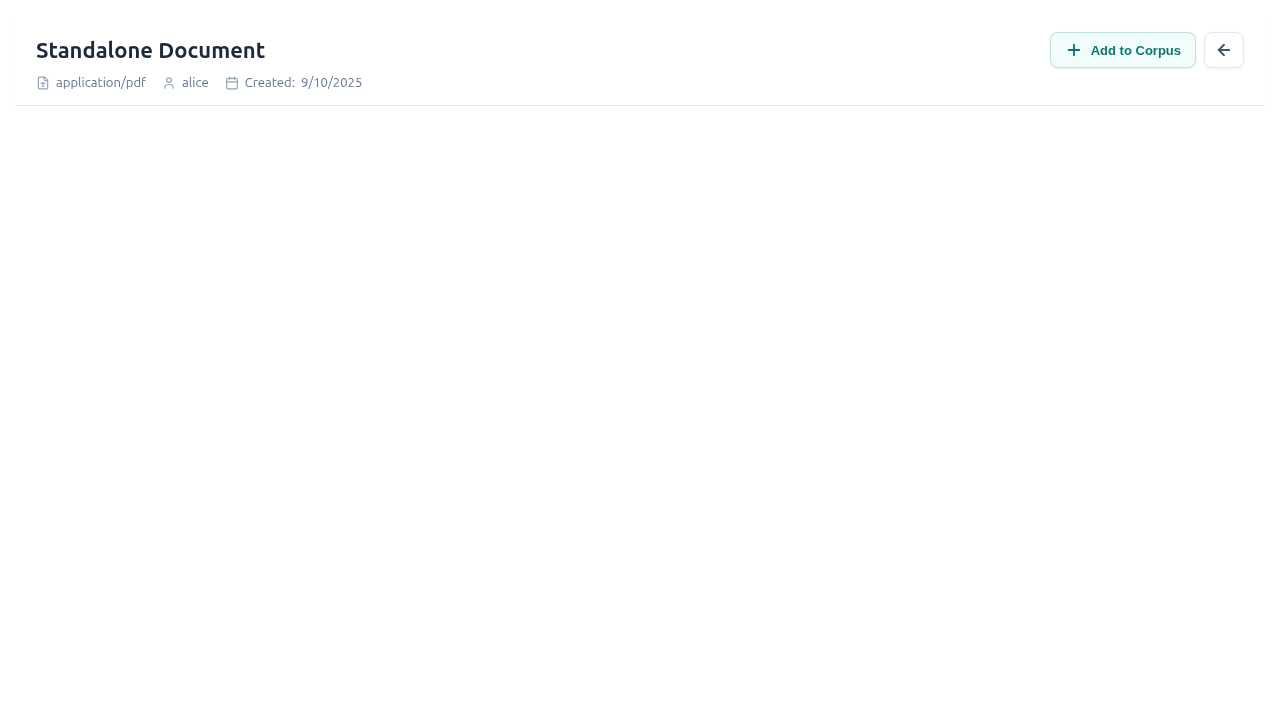
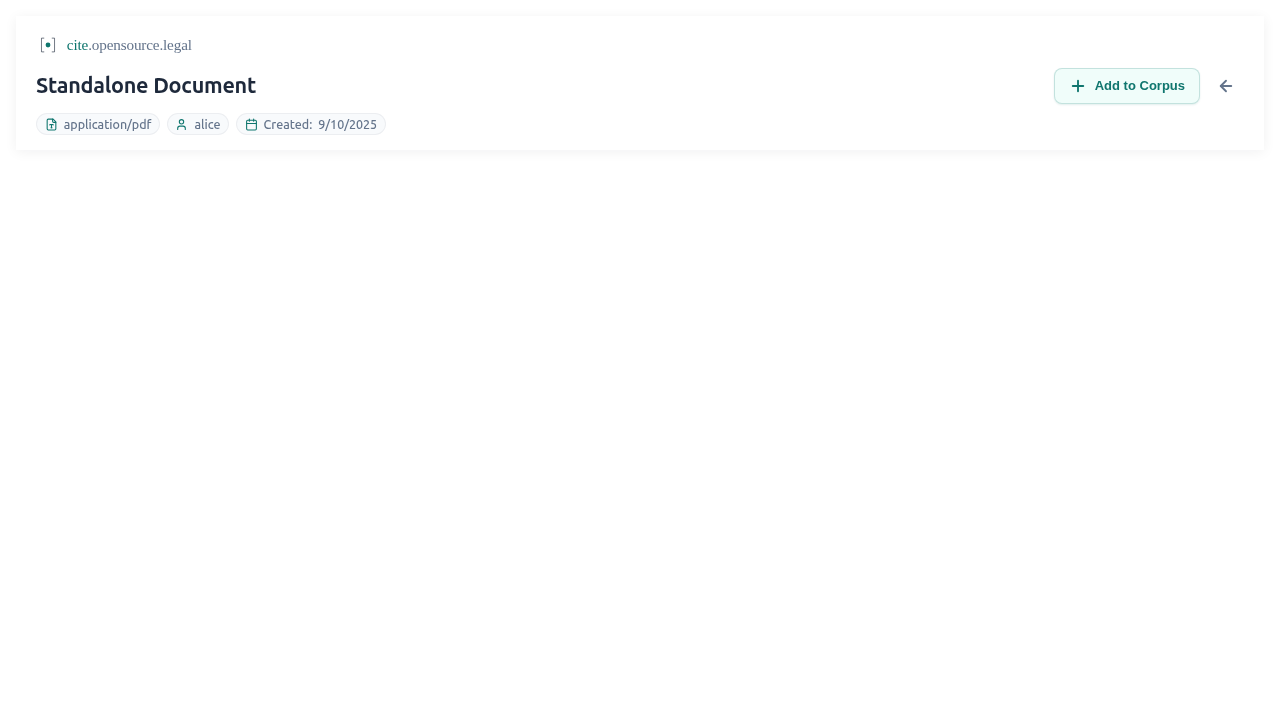
Surface cite / opensource.legal branding in document viewer header (#1865)
* Surface cite / opensource.legal branding in document viewer header

The DocumentKnowledgeBase opens as a full-screen modal that sits above
and hides the global NavMenu where the cite logo and cite.opensource.legal
branding normally live. Add a brand row to the top of the document
HeaderBar that renders the CiteMark logo plus the cite.opensource.legal
wordmark and links home, so the product identity stays visible while a
document is open.

* Address review: idiomatic brand styled-components, brand test, lint fix

- Replace .brand-domain / .brand-domain__accent class selectors in BrandLink
  with dedicated BrandDomain / BrandAccent styled components (type-safe,
  co-located, consistent with the rest of HeaderAndLayout).
- Drop the duplicate JSX rationale comment in HeaderBar (the HeaderBrandRow
  JSDoc is the canonical explanation).
- Document the margin-left nudge on BrandLink.
- HeaderBar.ct.tsx: assert the brand row renders; raise the mobile-header
  compactness bound 112 -> 140 to account for the intentional brand row.
- Prettier reformat (fixes the failing Lint check).

---------

Changed region(s): [[0.0312, 0.0611, 0.2812, 0.1833], [0.8125, 0.0611, 0.9375, 0.1528]]

diff --git a/frontend/src/components/knowledge_base/document/styled/HeaderAndLayout.tsx b/frontend/src/components/knowledge_base/document/styled/HeaderAndLayout.tsx
@@ -1,7 +1,11 @@
+import { Link } from "react-router-dom";
 import styled from "styled-components";
 import { Z_INDEX } from "../../../../assets/configurations/constants";
 import { SHADOW } from "../../../../assets/configurations/designTokens";
-import { OS_LEGAL_COLORS } from "../../../../assets/configurations/osLegalStyles";
+import {
+  OS_LEGAL_COLORS,
+  OS_LEGAL_TYPOGRAPHY,
+} from "../../../../assets/configurations/osLegalStyles";
 
 export const HeaderContainer = styled.div`
   margin: 0;
@@ -29,6 +33,59 @@ export const HeaderContainer = styled.div`
   @media (max-width: 480px) {
     padding: 0.75rem 0.85rem 0.7rem;
   }
+`;
+
+/**
+ * Brand row pinned to the very top of the document header.
+ *
+ * The DocumentKnowledgeBase opens as a full-screen modal that sits above — and
+ * therefore hides — the global NavMenu where the cite / opensource.legal
+ * branding normally lives. We re-surface that branding here so the product
+ * identity stays visible while a document is open.
+ */
+export const HeaderBrandRow = styled.div`
+  display: flex;
+  align-items: center;
+  min-width: 0;
+`;
+
+export const BrandLink = styled(Link)`
+  display: inline-flex;
+  align-items: center;
+  gap: 0.5rem;
+  /* Pull the mark flush with the container's left padding so it optically
+     aligns with the title row below it. */
+  margin-left: -0.3rem;
+  padding: 0.15rem 0.35rem;
+  border-radius: 8px;
+  text-decoration: none;
+  color: ${OS_LEGAL_COLORS.textSecondary};
+  transition: color 0.18s ease, background 0.18s ease;
+
+  &:hover {
+    color: ${OS_LEGAL_COLORS.textPrimary};
+    background: ${OS_LEGAL_COLORS.surfaceHover};
+  }
+
+  svg {
+    flex-shrink: 0;
+  }
+`;
+
+export const BrandDomain = styled.span`
+  font-family: ${OS_LEGAL_TYPOGRAPHY.fontFamilySerif};
+  font-size: 0.95rem;
+  font-weight: 500;
+  letter-spacing: -0.01em;
+  white-space: nowrap;
+
+  @media (max-width: 480px) {
+    font-size: 0.85rem;
+  }
+`;
+
+export const BrandAccent = styled.span`
+  color: ${OS_LEGAL_COLORS.accent};
 `;
 
 export const HeaderPrimaryRow = styled.div`

diff --git a/frontend/tests/HeaderBar.ct.tsx b/frontend/tests/HeaderBar.ct.tsx
@@ -20,6 +20,12 @@ test.describe("HeaderBar", () => {
       />
     );
 
+    // The cite / opensource.legal brand row is re-surfaced here because the
+    // knowledge-base modal hides the global NavMenu (see HeaderBrandRow).
+    const brand = page.getByTestId("document-header-brand");
+    await expect(brand).toBeVisible();
+    await expect(brand).toContainText("cite.opensource.legal");
+
     await expect(page.getByText("Quarterly Earnings Report")).toBeVisible();
     await expect(page.getByText("application/pdf")).toBeVisible();
     // Slug-only privacy: cross-user surfaces render the slug, never email.
@@ -114,7 +120,10 @@ test.describe("HeaderBar", () => {
     expect(addBox).not.toBeNull();
     expect(backBox).not.toBeNull();
 
-    expect(headerBox!.height).toBeLessThanOrEqual(112);
+    // Compactness bound. Raised from 112 → 140 when the cite / opensource.legal
+    // brand row was added above the title row (it contributes ~12px at this
+    // breakpoint). The bound still guards against the header growing unbounded.
+    expect(headerBox!.height).toBeLessThanOrEqual(140);
     expect(headerBox!.x + headerBox!.width).toBeLessThanOrEqual(402);
     expect(addBox!.x + addBox!.width).toBeLessThanOrEqual(
       headerBox!.x + headerBox!.width

diff --git a/frontend/src/components/knowledge_base/document/document_kb/HeaderBar.tsx b/frontend/src/components/knowledge_base/document/document_kb/HeaderBar.tsx
@@ -1,7 +1,12 @@
 import React from "react";
 import { ArrowLeft, Calendar, FileType, Plus, User } from "lucide-react";
 import { DocumentVersionSelector } from "../../../documents/DocumentVersionSelector";
+import { CiteMark } from "../../../brand";
 import {
+  BrandAccent,
+  BrandDomain,
+  BrandLink,
+  HeaderBrandRow,
   HeaderContainer,
   HeaderPrimaryRow,
   HeaderTitle,
@@ -52,6 +57,19 @@ export const HeaderBar: React.FC<HeaderBarProps> = ({
 
   return (
     <HeaderContainer data-testid="document-header">
+      <HeaderBrandRow>
+        <BrandLink
+          to="/"
+          aria-label="cite — opensource.legal home"
+          data-testid="document-header-brand"
+        >
+          <CiteMark size={22} ariaLabel="" />
+          <BrandDomain>
+            <BrandAccent>cite</BrandAccent>.opensource.legal
+          </BrandDomain>
+        </BrandLink>
+      </HeaderBrandRow>
+
       <HeaderPrimaryRow>
         <HeaderTitleBlock>
           <HeaderTitle>
